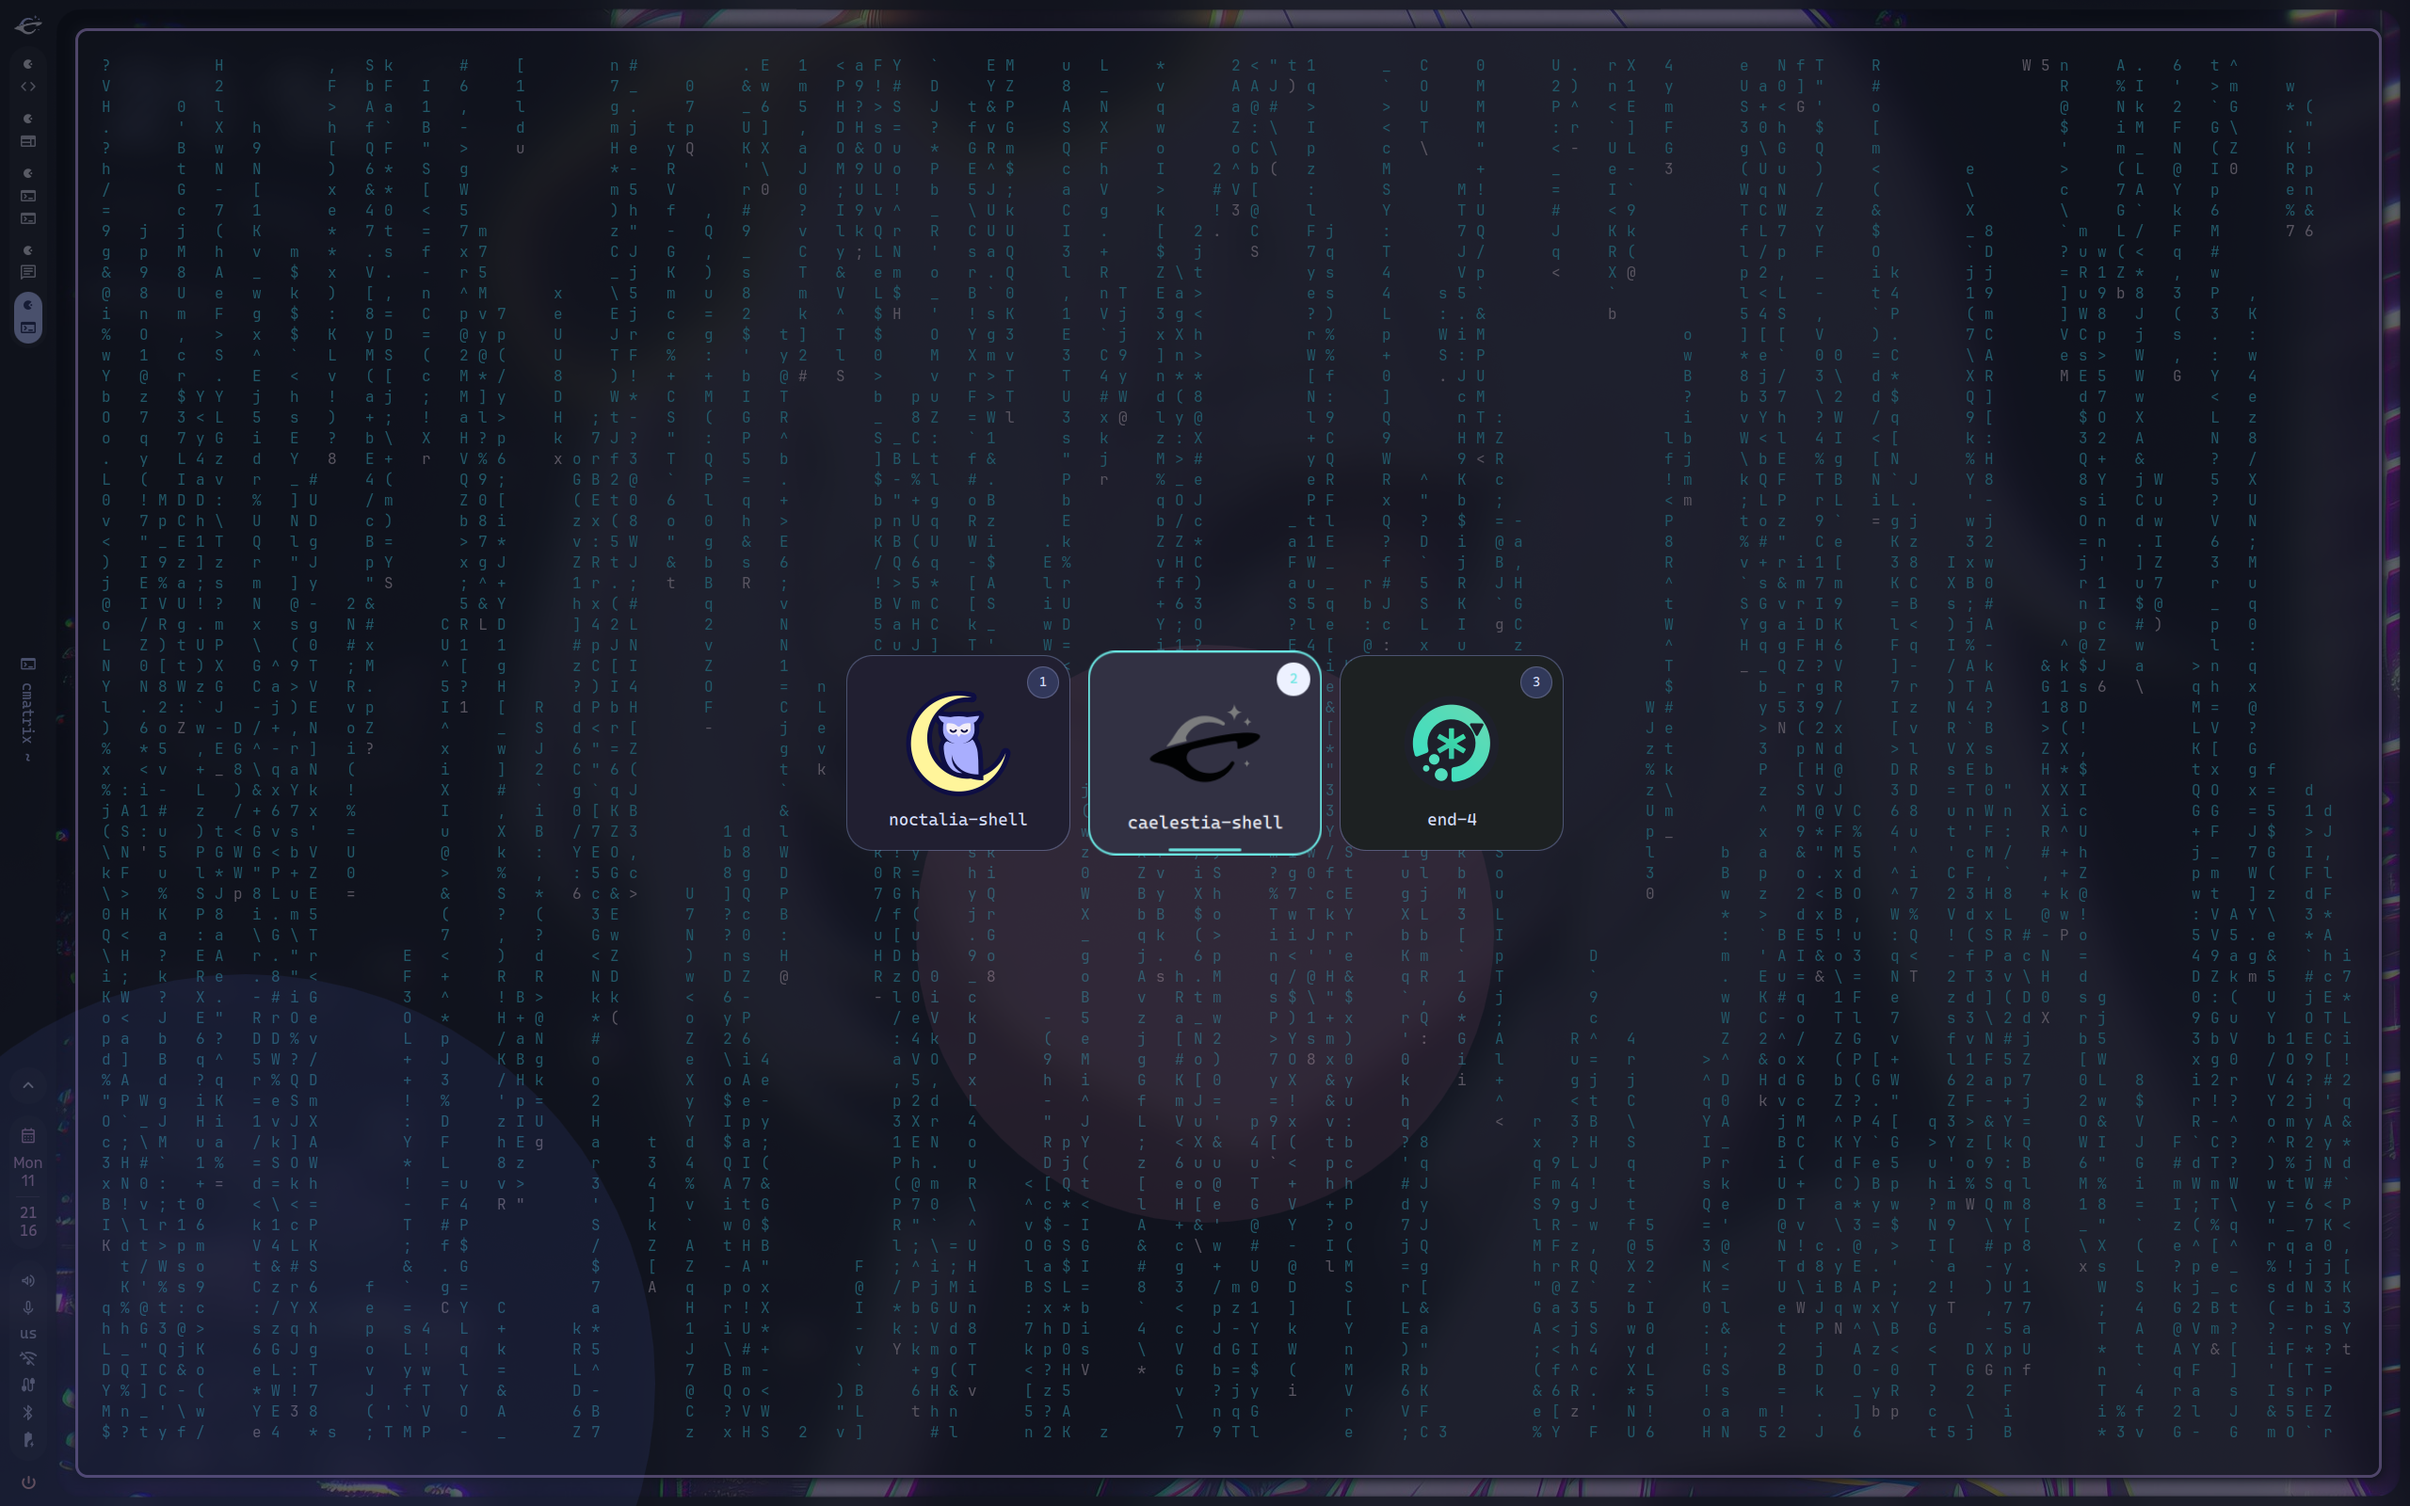
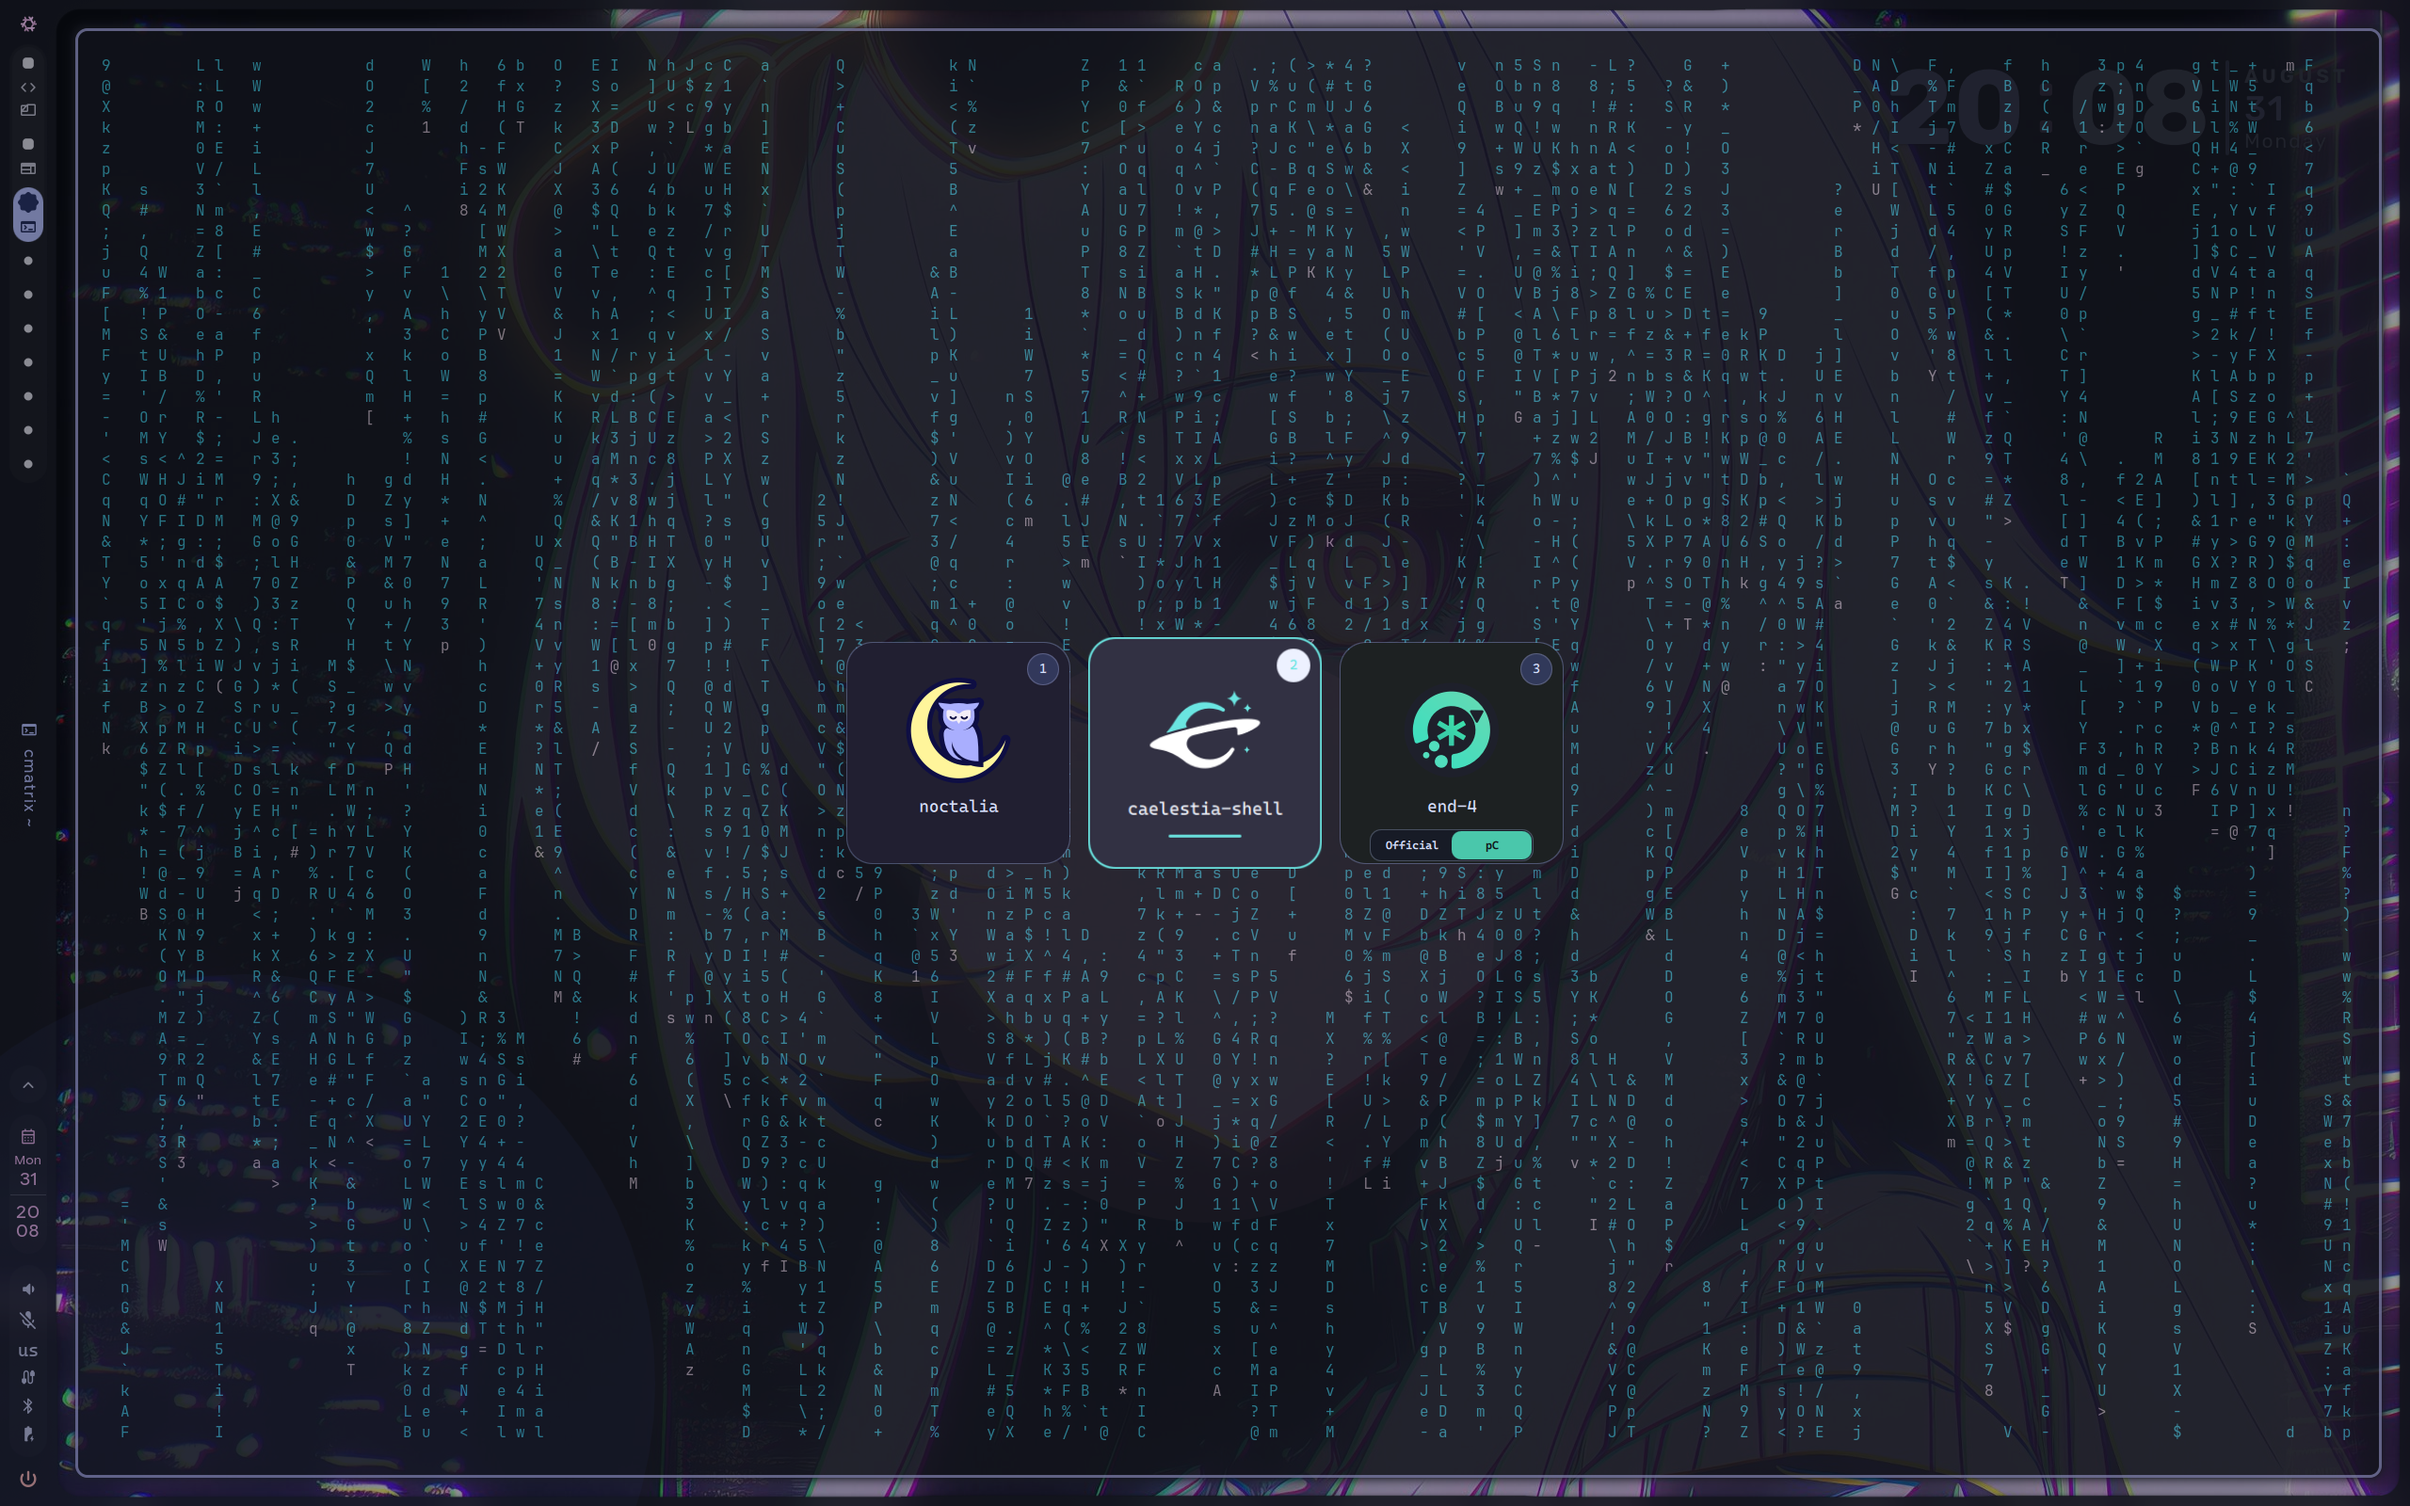
docs(readme): refresh video and screenshots

diff --git a/README.md b/README.md
@@ -7,9 +7,9 @@
 
 Personal system configuration for Linux (NixOS + Hyprland) and Windows (Komorebi + YASB).
 
-[![NixOS Rice & Dev Environment](assets/preview.png)](https://youtu.be/fgmueUOnfhk)
+[![NixOS Rice & Dev Environment](assets/preview.png)](https://youtu.be/pA6Xnz_d-KU)
 
-*[8-minute video tour](https://youtu.be/fgmueUOnfhk) - click the image above*
+*[8-minute video tour](https://youtu.be/pA6Xnz_d-KU) - click the image above*
 
 ---
 
@@ -49,9 +49,13 @@ square instead of a circle.
 
 ## Screenshots
 
-| caelestia-shell | noctalia v5 | noctalia v4 | End4 Official (Illogical Impulse) |
-| :---: | :---: | :---: | :---: |
-| ![caelestia-shell](assets/caelestia-shell.png) | ![noctalia v5](assets/noctalia-v5.png) | ![noctalia v4](assets/noctalia-v4.png) | ![end-4](assets/end-4.png) |
+| Caelestia | Noctalia v5 | Noctalia v4 |
+| :---: | :---: | :---: |
+| ![Caelestia](assets/caelestia.png) | ![Noctalia v5](assets/noctalia-v5.png) | ![Noctalia v4](assets/noctalia-v4.png) |
+
+| End4 Official (Illogical Impulse) | End4 pC |
+| :---: | :---: |
+| ![End4 Official](assets/end-4.png) | ![End4 pC](assets/end-4-pC.png) |
 
 | Zen Browser (Catppuccin chrome) | Zen + Sine mods | Neovim (LazyVim) |
 | :---: | :---: | :---: |
